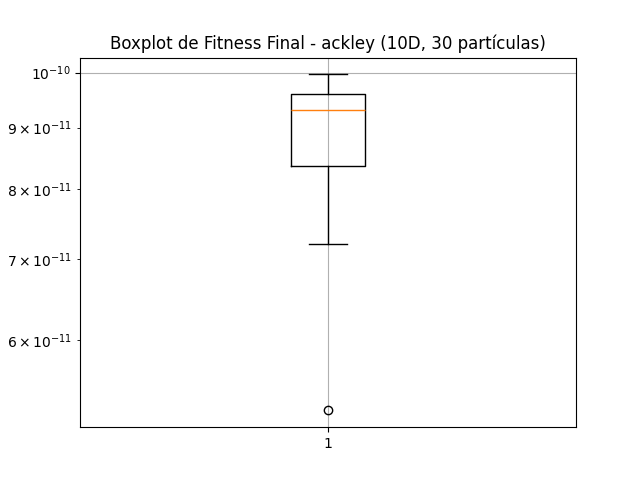
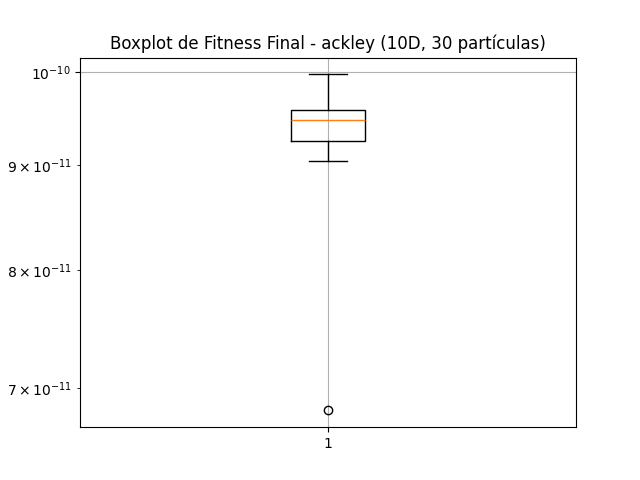
feat: variantes do pso

diff --git a/main.py b/main.py
@@ -1,6 +1,8 @@
 from src.environment import PSOEnvironment
 import numpy as np
 import matplotlib.pyplot as plt
+import multiprocessing
+
 
 def griewank(solution: np.ndarray) -> float:
     dim = len(solution)
@@ -8,6 +10,7 @@ def griewank(solution: np.ndarray) -> float:
     angles = (solution / np.sqrt(np.arange(1, dim + 1))) * np.pi / 180
     product_part = np.prod(np.cos(angles))
     return sum_part - product_part + 1
+
 
 def ackley(solution: np.ndarray) -> float:
     dim = len(solution)
@@ -18,75 +21,90 @@ def ackley(solution: np.ndarray) -> float:
     return term1 + term2 + 20 + np.e
 
 
+# Função para ser executada em paralelo
+def run_pso(dim, bounds, obj_fn, num_particles, variant, w=0.729, k=3):
+    pso = PSOEnvironment(
+        dimensions=dim,
+        bounds=bounds,
+        objective_function=obj_fn,
+        num_particles=num_particles,
+        c1=2.05,
+        c2=2.05,
+        vmax_ratio=0.1,
+        variant=variant,
+        w=w,
+        k=k
+    )
+    result = pso.optimize()
+    return result.fitness_history, result.best_fitness, result.best_position, result.iterations
+
 
 if __name__ == '__main__':
+    multiprocessing.set_start_method("spawn")  # mais seguro, especialmente no Windows/macOS
+
     TEST_FUNCTIONS = ["ackley", "griewank"]
     NUM_PARTICLES = 30
     DIMENSIONS = [5, 10]
+    VARIANTS = [
+        ("standard", {"w": 0.729, "k": 3}),
+        ("w", {"w": 0.729, "k": 3}),
+        ("k", {"w": 1.0, "k": 3}),
+    ]
 
     for test_function in TEST_FUNCTIONS:
         if test_function == "ackley":
             BOUNDS = (-32.768, 32.768)
+            OBJ_FN = ackley
         else:
             BOUNDS = (-600, 600)
-            
+            OBJ_FN = griewank
+
         for dim in DIMENSIONS:
-            fits = []
-            max_len = 0
+            for variant, params in VARIANTS:
+                print(f"Executando {test_function} com {dim} dimensões, variante {variant}...")
 
-            for i in range(10):
+                with multiprocessing.Pool(processes=10) as pool:
+                    results = pool.starmap(
+                        run_pso,
+                        [(dim, BOUNDS, OBJ_FN, NUM_PARTICLES, variant, params["w"], params["k"]) for _ in range(10)]
+                    )
 
-                pso = PSOEnvironment(
-                    dimensions=dim,
-                    bounds=BOUNDS,
-                    objective_function= ackley if test_function == "ackley" else griewank,
-                    num_particles=NUM_PARTICLES,
-                    c1=2.05,
-                    c2=2.05,
-                    vmax_ratio=0.1
-                )
+                fits = [r[0] for r in results]
+                best_fitnesses = [r[1] for r in results]
+                best_positions = [r[2] for r in results]
+                iterations_list = [r[3] for r in results]
 
-                assert pso.c1 + pso.c2 > 4, "c1 + c2 deve ser maior que 4"
+                max_len = max(len(fit) for fit in fits)
+                fits_padded = [np.pad(f, (0, max_len - len(f)), constant_values=np.nan) for f in fits]
+                mean_fit = np.nanmean(fits_padded, axis=0)
 
-                result = pso.optimize()
-                fits.append(result.fitness_history)
-                max_len = max(max_len, len(result.fitness_history))
+                # Resultados
+                with open(f"results/{test_function}_{dim}D_{variant}.txt", "w") as f:
+                    f.write(f"Desvio padrão: {np.std(mean_fit)}\n")
+                    f.write(f"Fit médio: {np.mean(mean_fit)}\n")
 
-            # Preenchimento com NaN para alinhamento
-            fits_padded = [np.pad(f, (0, max_len - len(f)), constant_values=np.nan) for f in fits]
-            mean_fit = np.nanmean(fits_padded, axis=0)
-            std_deviation = np.nanstd(fits_padded, axis=0)
+                # Gráfico de convergência
+                plt.plot(mean_fit)
+                plt.title(f"Convergência do PSO-{variant} - {test_function} ({dim}D, {NUM_PARTICLES} partículas)")
+                plt.xlabel("Iterações")
+                plt.ylabel("Fitness")
+                plt.yscale("log")
+                plt.grid()
+                plt.savefig(f"graphs/convergencia_{test_function}_{dim}D_{variant}.png")
+                plt.close()
 
-            with open(f"results/{test_function}_{dim}D.txt", "w") as f:
-                f.write(f"Desvio padrão: {np.std(mean_fit)}\n")
-                f.write(f"Fit médio: {np.mean(mean_fit)}\n")
-            
-            # Gráfico de convergência
-            plt.plot(mean_fit)
-            plt.title(f"Convergência do PSO - {test_function} ({dim}D, {NUM_PARTICLES} partículas)")
-            plt.xlabel("Iterações")
-            plt.ylabel("Fitness")
-            plt.yscale("log")
-            plt.grid()
-            plt.savefig(f"graphs/convergencia_{test_function}_{dim}D.png")
-            plt.close()
+                # Boxplot
+                final_fitness = [f[-1] for f in fits]
+                plt.boxplot(final_fitness)
+                plt.title(f"Boxplot de Fitness Final - {test_function} ({dim}D, {NUM_PARTICLES} partículas, {variant})")
+                plt.ylabel("Fitness final")
+                plt.grid()
+                plt.yscale("log")
+                plt.savefig(f"graphs/boxplot_{test_function}_{dim}D_{variant}.png")
+                plt.close()
 
-            """
-            # Boxplot
-            """
-            final_fitness = [f[-1] for f in fits]
-            plt.boxplot(final_fitness)
-            plt.title(f"Boxplot de Fitness Final - {test_function} ({dim}D, {NUM_PARTICLES} partículas)")
-            plt.ylabel("Fitness final")
-            plt.grid()
-            plt.yscale("log")
-            plt.savefig(f"graphs/boxplot_{test_function}_{dim}D.png")
-            plt.close()
-
-
-
-            print("\nOptimization Results:")
-            print(f"Best fitness: {result.best_fitness}")
-            print(f"Best position: {result.best_position}")
-            print(f"Iterations: {result.iterations}")
-            print(f"Final fitness: {result.fitness_history[-1]}")
+                print("\nOptimization Results:")
+                print(f"Best fitness: {min(best_fitnesses)}")
+                print(f"Best position: {best_positions[np.argmin(best_fitnesses)]}")
+                print(f"Iterations: {iterations_list[np.argmin(best_fitnesses)]}")
+                print(f"Final fitness: {final_fitness[np.argmin(best_fitnesses)]}")

diff --git a/src/environment.py b/src/environment.py
@@ -19,7 +19,10 @@ class PSOEnvironment:
         num_particles: int = 100,   
         c1: float = 1.5,            
         c2: float = 1.5,            
-        vmax_ratio: float = 0.1     
+        vmax_ratio: float = 0.1,
+        variant: str = 'standard',  # 'standard', 'w', 'k'
+        w: float = 0.729,           # fator de inércia para PSOw
+        k: int = 3                  # número de vizinhos para PSOk
     ):
         """
         Ambiente para execução do algoritmo PSO.
@@ -32,6 +35,9 @@ class PSOEnvironment:
             c1: Coeficiente cognitivo
             c2: Coeficiente social
             vmax_ratio: Razão do intervalo de busca para definir velocidade máxima
+            variant: Variante do PSO ('standard', 'w', 'k')
+            w: Fator de inércia para PSOw
+            k: Número de vizinhos para PSOk
         """
         self.dimensions = dimensions
         self.bounds = bounds
@@ -40,6 +46,9 @@ class PSOEnvironment:
         self.c1 = c1
         self.c2 = c2
         self.vmax_ratio = vmax_ratio
+        self.variant = variant
+        self.w = w
+        self.k = k
         
         self.global_best_position = np.zeros(dimensions)
         self.global_best_fitness = float('inf')
@@ -51,6 +60,17 @@ class PSOEnvironment:
             for _ in range(num_particles)
         ]
 
+    def get_ring_best(self, idx):
+        # Retorna o melhor fitness entre os k vizinhos em anel
+        indices = [(idx + i) % self.num_particles for i in range(-self.k//2, self.k//2+1)]
+        best_fitness = float('inf')
+        best_position = None
+        for i in indices:
+            if self.particles[i].best_fitness < best_fitness:
+                best_fitness = self.particles[i].best_fitness
+                best_position = self.particles[i].best_position
+        return best_position
+
     def optimize(
         self,
         tolerance: float = 1e-10,
@@ -60,9 +80,7 @@ class PSOEnvironment:
         Executa a otimização por PSO.
         
         Args:
-            max_iterations: Número máximo de iterações
             tolerance: Valor de tolerância para convergência
-            stagnation_limit: Número de iterações sem melhoria para parada antecipada
             verbose: Se True, imprime progresso durante a execução
             
         Returns:
@@ -71,11 +89,10 @@ class PSOEnvironment:
         iterations = 0
         
         while (self.global_best_fitness > tolerance):
-            
             iteration_fitness = []
             
             # Avalia todas as partículas
-            for particle in self.particles:
+            for idx, particle in enumerate(self.particles):
                 fitness, position = particle.evaluate(self.objective_function)
                 iteration_fitness.append(fitness)
                 
@@ -84,7 +101,17 @@ class PSOEnvironment:
                     self.global_best_fitness = fitness
                     self.global_best_position = np.copy(position)
 
-                particle.update_velocity(self.global_best_position)
+            # Atualização de velocidade e posição
+            for idx, particle in enumerate(self.particles):
+                if self.variant == 'standard':
+                    particle.update_velocity(self.global_best_position)
+                elif self.variant == 'w':
+                    particle.update_velocity(self.global_best_position, w=self.w)
+                elif self.variant == 'k':
+                    ring_best = self.get_ring_best(idx)
+                    particle.update_velocity(ring_best)
+                else:
+                    raise ValueError("Unknown PSO variant")
                 particle.update_position()
             
             # Registra histórico e verifica estagnação

diff --git a/src/particle.py b/src/particle.py
@@ -14,8 +14,6 @@ class Particle:
         self.best_position = np.copy(self.position)
         self.best_fitness = float('inf')
 
-        self.w = 0.729 
-
     def evaluate(self, objective_function):
         fitness = objective_function(self.position)
         if fitness < self.best_fitness:
@@ -23,13 +21,14 @@ class Particle:
             self.best_position = np.copy(self.position)
         return fitness, self.position
 
-    def update_velocity(self, global_best_position):
+    def update_velocity(self, best_position, w=1.0):
+        # best_position pode ser o global_best (PSO/PSOw) ou o melhor vizinho (PSOk)
         r1 = np.random.rand(self.dimensions)
         r2 = np.random.rand(self.dimensions)
 
         cognitive = self.c1 * r1 * (self.best_position - self.position)
-        social = self.c2 * r2 * (global_best_position - self.position)
-        inertia = self.w * self.velocity
+        social = self.c2 * r2 * (best_position - self.position)
+        inertia = w * self.velocity
 
         self.velocity = inertia + cognitive + social
         self.velocity = np.clip(self.velocity, -self.vmax, self.vmax)
